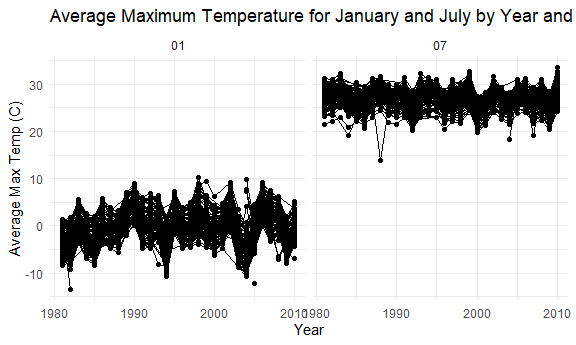
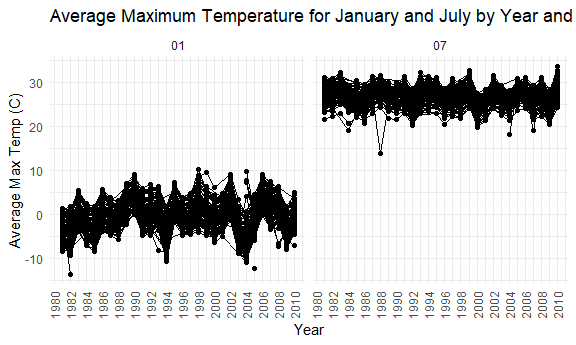
updates to plots and problem 3

diff --git a/p8105_hw3_jf3200.md b/p8105_hw3_jf3200.md
@@ -196,22 +196,16 @@ activity count for each minute of observation.
 Below is a table of total activity by day for each of the 5 weeks
 
 ``` r
-accel_day =
-  accel_df %>% 
+accel_df %>% 
   group_by(day, week) %>% 
-  summarize(total_activity = round(sum(activity, na.rm = TRUE)))
-```
-
-    ## `summarise()` regrouping output by 'day' (override with `.groups` argument)
-
-``` r
-# Make table more readable
-accel_day %>% 
-    pivot_wider(
+  summarize(total_activity = round(sum(activity, na.rm = TRUE))) %>% 
+  pivot_wider(
     names_from = day, 
     values_from = total_activity) %>%
   knitr::kable()
 ```
+
+    ## `summarise()` regrouping output by 'day' (override with `.groups` argument)
 
 | week | Sunday | Monday | Tuesday | Wednesday | Thursday | Friday | Saturday |
 | ---: | -----: | -----: | ------: | --------: | -------: | -----: | -------: |
@@ -222,11 +216,10 @@ accel_day %>%
 |    5 | 138421 | 389080 |  367824 |    445366 |   549658 | 620860 |     1440 |
 
 Looking at this table, we notice that this person had very little
-activity on Saturday during week 4 and week 5 (value of 1440). A general
-trend that can be noticed is a decrease in activity towards the end of
-the study, particularly on the weekends.No other clear trends can be
-noticed from this table. The average total amount of activity on a given
-day is 384543.5 and it ranged from 1440 to 685910.
+activity on Saturday during week 4 and week 5. A general trend that can
+be noticed is a decrease in activity towards the end of the study,
+particularly on the weekends. No other clear trends can be noticed from
+this table.
 
 The plot below provides information on the 24-hour activity time courses
 for each day, using color to designate day of the week.
@@ -280,7 +273,16 @@ There is a large extent of missingness in this dataset because not every
 weather station collected information on all of the variables provided.
 For example, `id` US1NYAB0001 has no information on `tmax` or `tmin`.
 Missing data can be an issue here because some stations will be excluded
-from certain analyses, which could lead to a biased sample of stations
+from certain analyses, which could lead to a biased sample of stations.
+The percentages of missingness are described below:
+
+  - 5.62% of `prcp` data is missing.
+  - 14.69% of `snow` data is missing.
+  - 22.8% of `snwd` data is missing.
+  - 43.71% of `tmax` data is missing.
+  - 43.71% of `tmin` data is missing
+
+<!-- end list -->
 
 ``` r
 ny_noaa = 
@@ -327,7 +329,10 @@ above. 0 is likely the most common because there are many days it does
 not snow. `NA` is also likely common as certain weather stations may not
 collect information on snowfall.
 
-## HELP WITH THIS
+Below is a plot showing the average max temperature in January and in
+July in each station across years (1981-2010). The left section “01”
+represents January temperatures and the right section “07” represents
+July temperatures.
 
 ``` r
 ny_noaa %>% 
@@ -339,6 +344,8 @@ ny_noaa %>%
   geom_point() +
   geom_path() +
   facet_grid(~month) +
+  scale_x_continuous(breaks = c(seq(1980,2010,2))) +
+  theme(axis.text.x = element_text(angle = 90, vjust = 0.5, hjust = 1)) +
   labs(title = "Average Maximum Temperature for January and July by Year and Station",
        x = "Year", 
        y = "Average Max Temp (C)") 
@@ -351,6 +358,19 @@ ny_noaa %>%
     ## Warning: Removed 5931 row(s) containing missing values (geom_path).
 
 <img src="p8105_hw3_jf3200_files/figure-gfm/plot_tmax_year-1.png" width="90%" />
+
+Looking at this plot, we can see that the average max temperature is
+much high in July than in January, as expected. In regards to observable
+structure, we can see that for January, that average maximum temperature
+appears to have a general trend of rising over the years. This could
+possibly be attributed to global warming. The average maximum
+temperature seems stable across the years in July. There are some
+outliers on both the January and July plots. For one station in the 1982
+and one station in 2005 in January, the average maximum temperature was
+particularly low compared to the rest of the stations. Additionally, in
+2004 several stations had higher average temperatures in January
+compared to the rest of the stations. In July, in 1988 one station have
+an average maximum temperature far below the rest.
 
 ``` r
 tmax_tmin = 
@@ -381,3 +401,13 @@ snow_dist =
     ## Warning: Removed 1136276 rows containing non-finite values (stat_binhex).
 
 <img src="p8105_hw3_jf3200_files/figure-gfm/patchwork_plots-1.png" width="90%" />
+
+The first panel of the plot shows a positive correlation between max and
+min temperatures on any given day. In context, this means on days when
+stations reported higher minimum temperatures they reported higher
+maximum temperatures as well.
+
+The second panel of the plot shows the snowfall distribution by year. We
+can see that there were comparable median and IQR values of snow
+reported across years. We can also see that the years 1998, 2006 and
+2010 had some extremely large snowstorms
